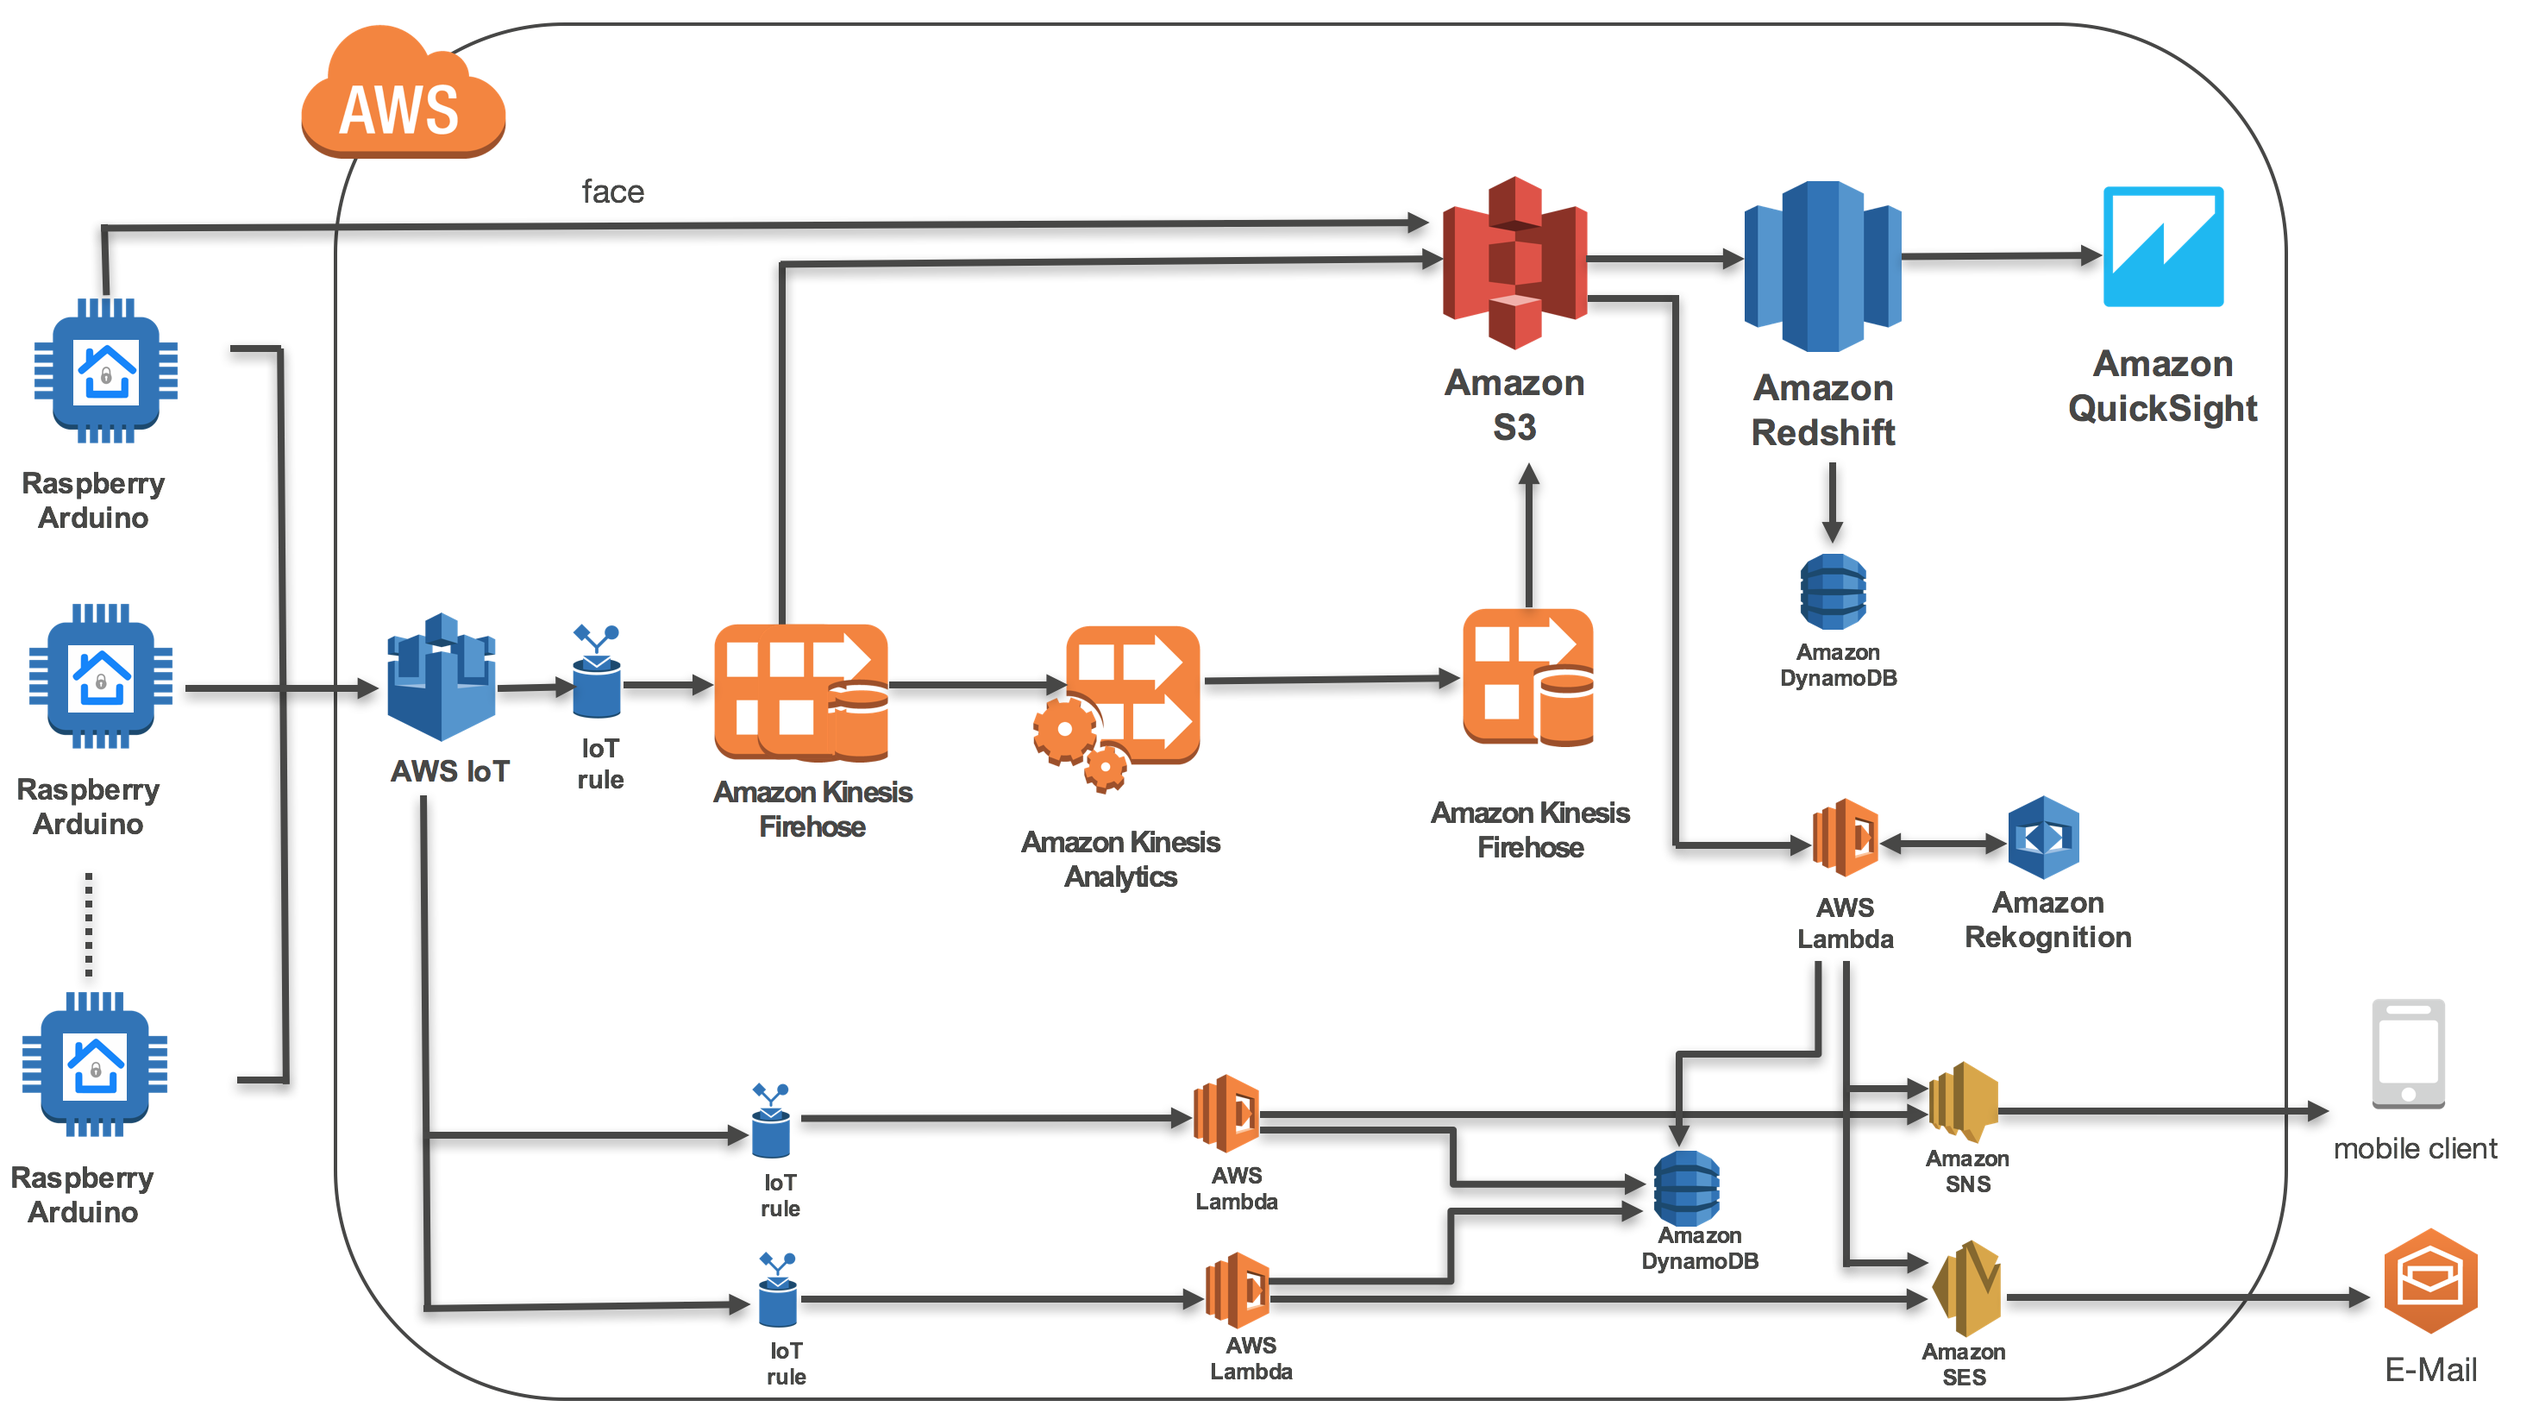
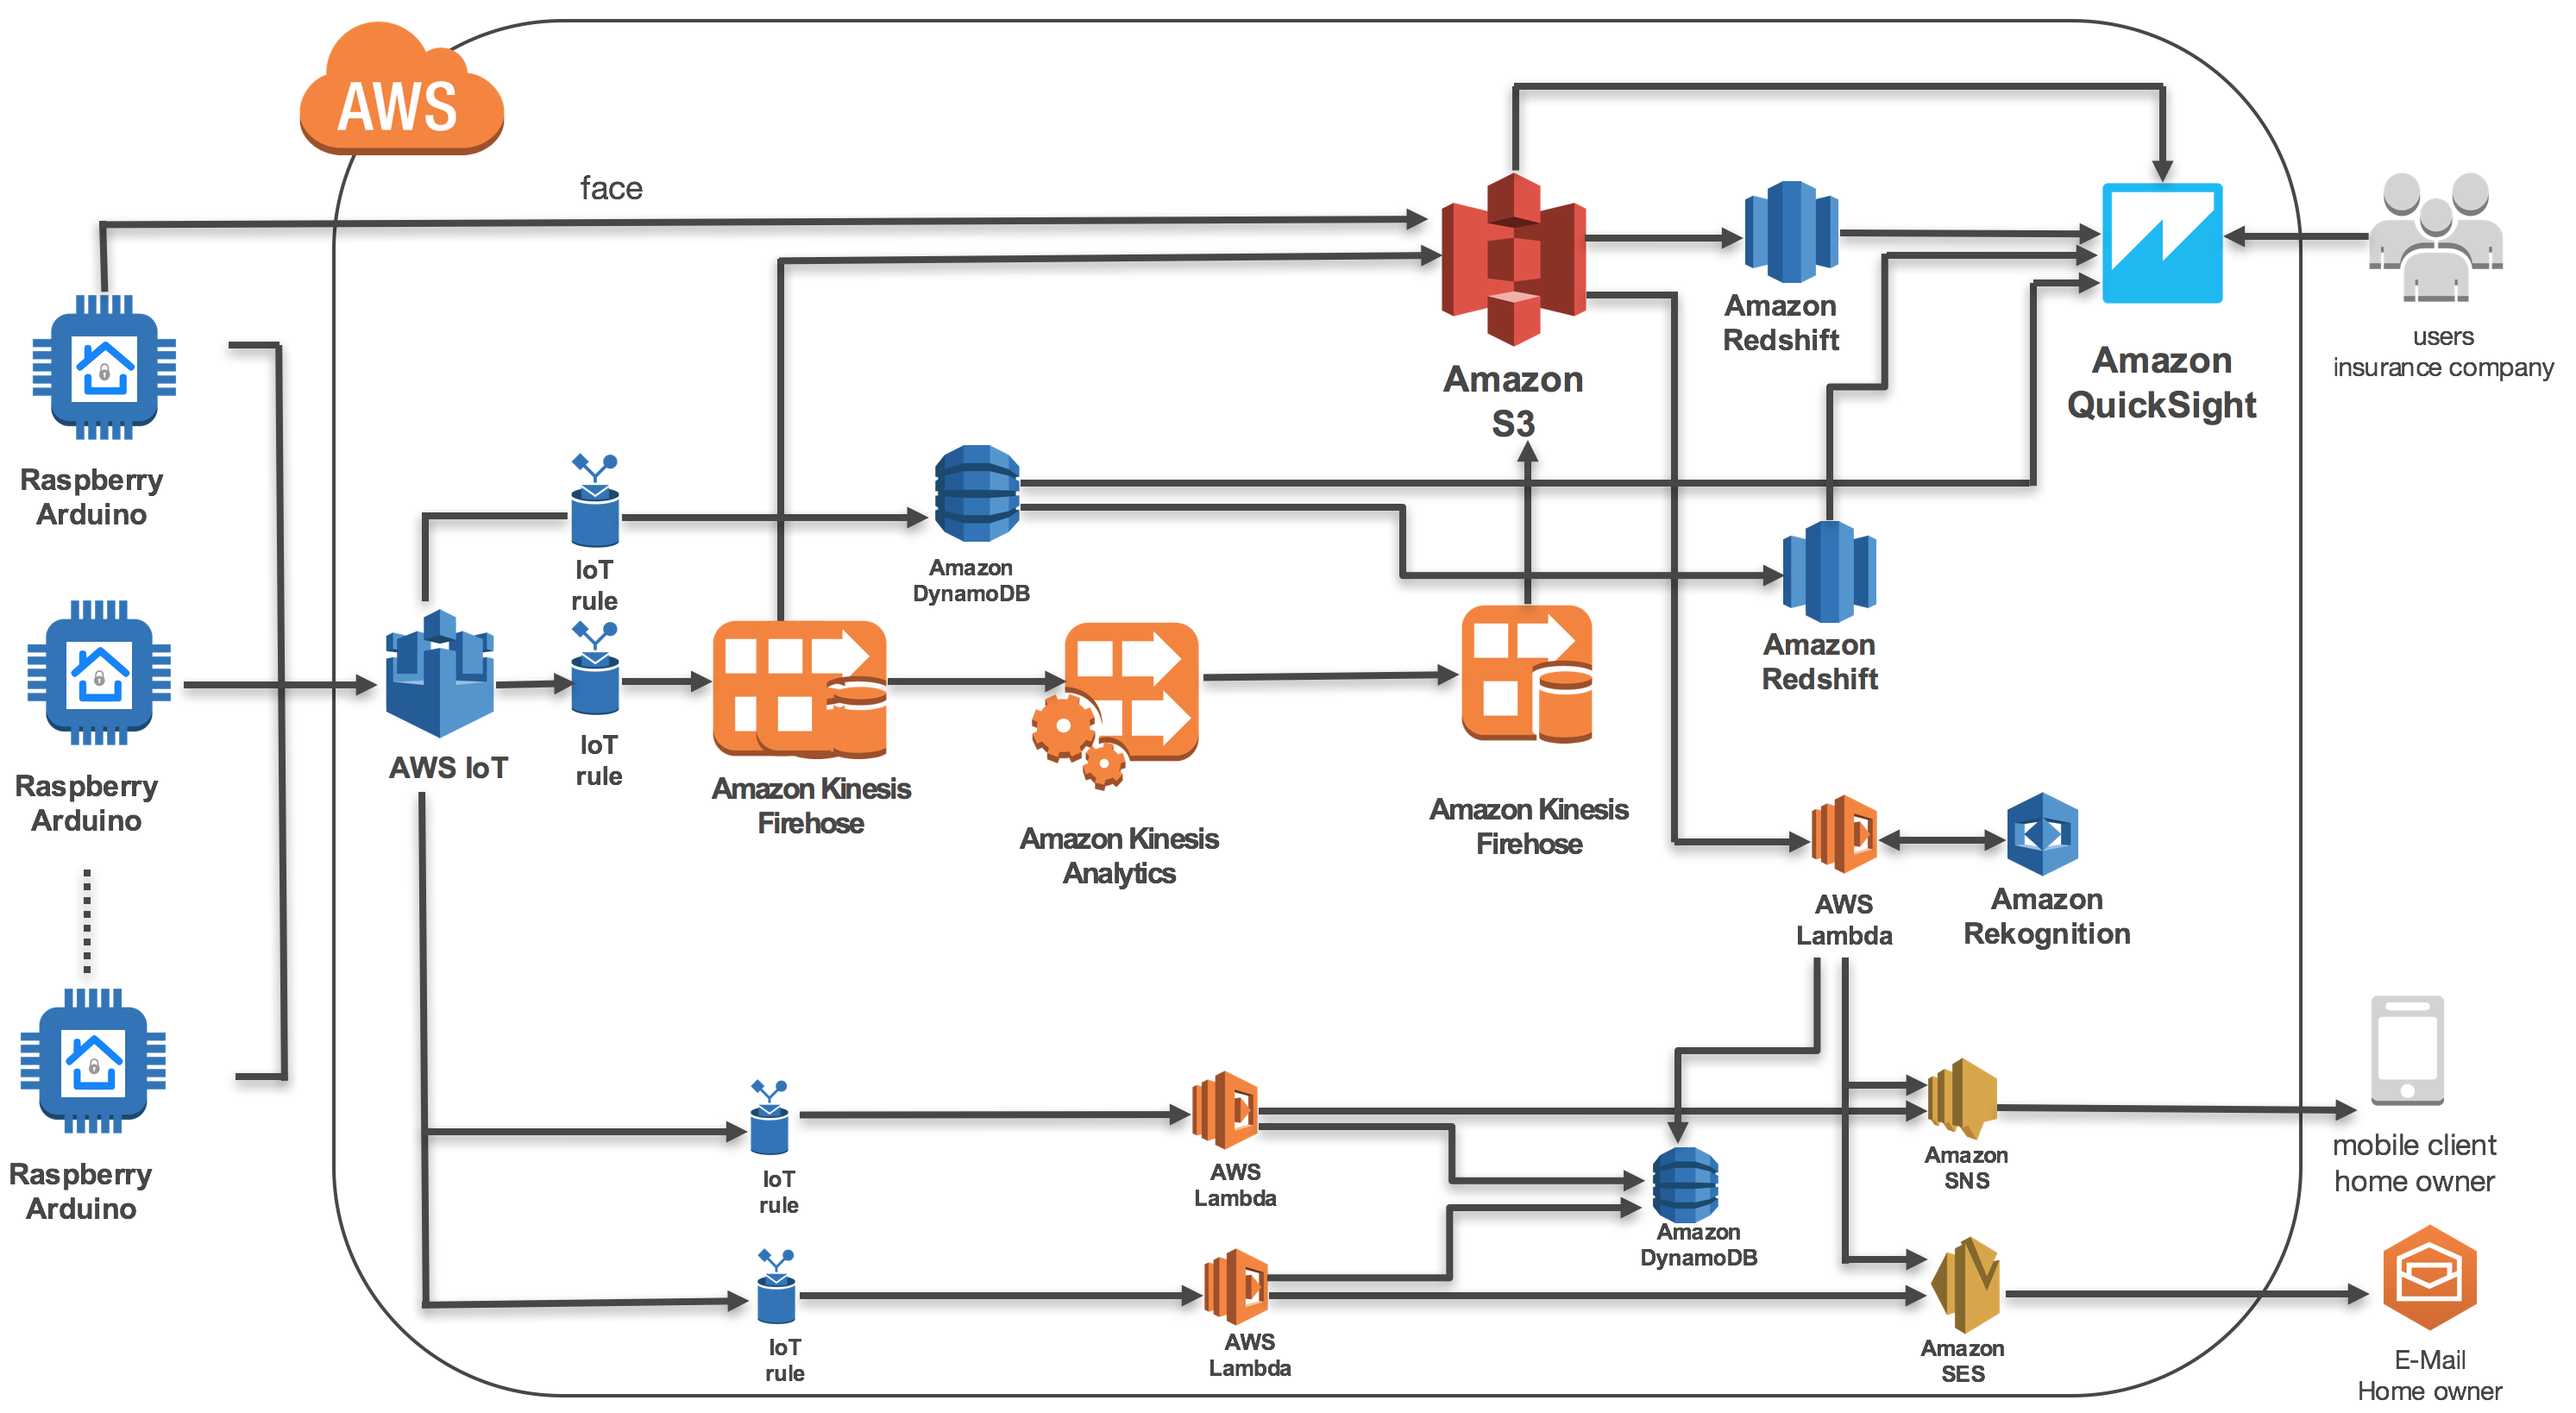
added new components

Changed region(s): [[0.0, 0.0, 1.0, 0.9963], [0.0, 0.685, 0.0625, 0.8718], [0.4062, 0.5916, 0.5, 0.6227]]

diff --git a/arity-developer/README.md b/arity-developer/README.md
@@ -1,0 +1,31 @@
+### Arity Driving Engine SDK
+
+![image alt text](/images/Arity_DE_SDK.png)
+
+#Driving Behavior Instructions
+
+### Driving Behavior using Arity SDK/API
+
+Use Cases
+
+Driving Behavior is currently used by major insurance partners, such as Allstate, Answer Financial, and Esurance. The solution offer them insights to understand and improve their customers' driving behavior.
+
+Driver Feedback
+
+Provide driver feedback on risky driving metrics such as hard braking, speeding and time of day.
+
+Rewards Programs
+
+Reward good driving by leverage the scoring APIs to integrate into rewards-based systems.
+
+Gamification Programs
+
+Leaderboards to allows drivers to compare their behavior and scores with other drivers.
+
+### Driving Behavior using Arity SDK/API
+
+![image alt text](/images/arity_driving_behavior.png)
+
+##What are the needed components:
+
+The the following components are needed:

diff --git a/README.md b/README.md
@@ -3,7 +3,7 @@
 Projects using Amazon Web Services (AWS) including AWS IoT (Internet of Things),
 Amazon Kinesis, and so on
 
-## HomeSecure - A SMART HOME IoT SOLUTION
+## HomeSecure - Lowering Home Insurance Price Using SMART HOME IoT SOLUTION
 
 Smart home and automation is an internet of things solution for users to have
 more control from preventing water leaks to air quality. It brings reliability
@@ -254,8 +254,23 @@ Amazon EC2
 
 ```
 
+## 3.3 Lower Insurance Premium Using ARITY Driving Behavior SDK AND AWS IoT
+
+### Arity Driving Engine SDK
+
+![image alt text](/images/Arity_DE_SDK.png)
+
+### Driving Behavior using Arity SDK/API
+
+![image alt text](/images/arity_driving_behavior.png)
+
+
 
 ## 4. Amazon FlightPulse, AWS IoT & Mobile Augmented Reality (AR)
+
+### Hardware Setup
+
+![image alt text](/images/rpi_sdr_nooelec.png)
 
 Hardware components used:
 

diff --git a/air-traffic-control/README.md b/air-traffic-control/README.md
@@ -1,0 +1,7 @@
+![image alt text](/images/rpi_sdr_nooelec.png)
+#ADSB Flight Radar Data Instructions
+
+
+##What are the needed components:
+
+The the following components are needed:
